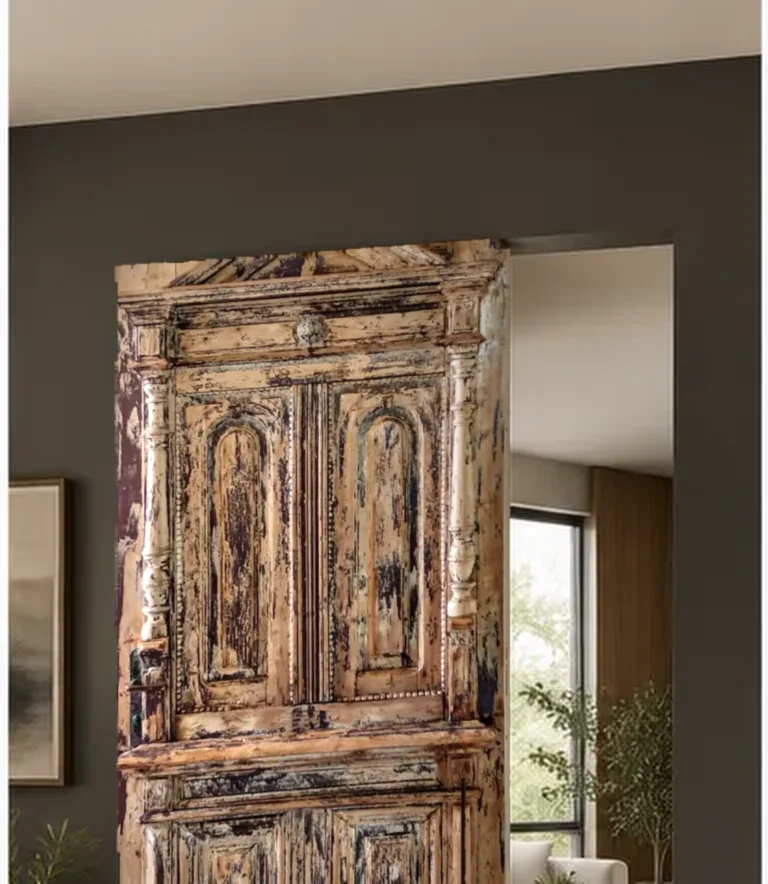
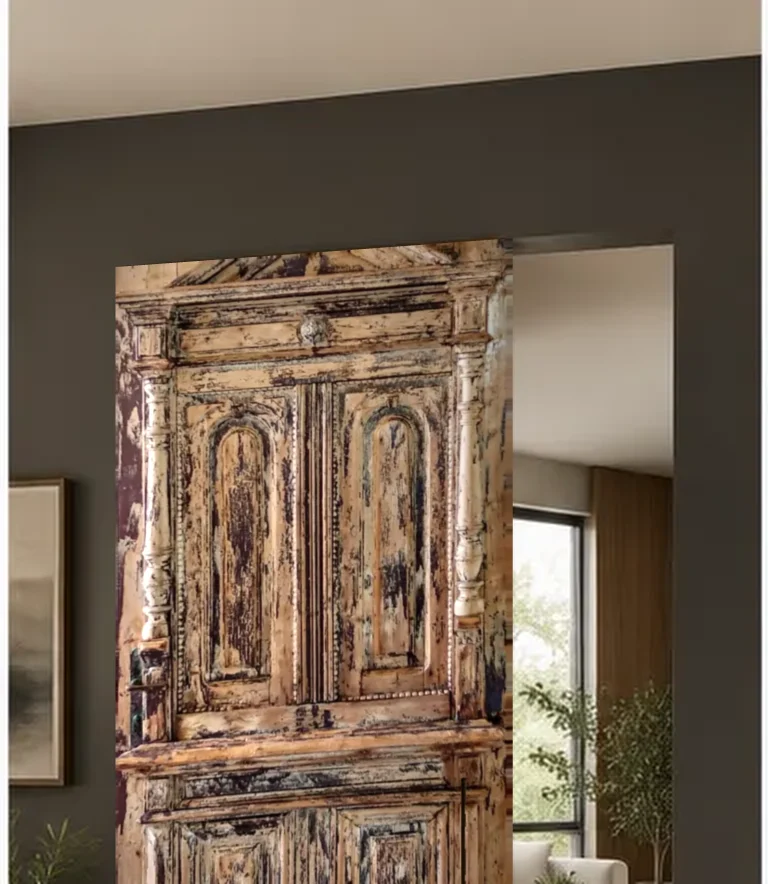
Show pocket door half open, clean slab edges, enlarge type dialog by 25%
- Pocket door (falban): the slab is now drawn half open in all four
  materials, leading edge at mid-opening, with the same handle as the
  other scenes; previously only a thin edge sliver was visible.
- Slab mask is an anti-aliased polygon from the measured corners instead
  of a colour mask: removes the ragged left edge and leftover strap blob
  on the floating-door images and the brown original-wood edge strip.
- Type dialog is 25% larger (max 1125 px wide).

Changed region(s): [[0.1562, 0.2749, 0.6875, 1.0], [0.125, 0.9468, 0.1562, 1.0]]

diff --git a/public/landing.css b/public/landing.css
@@ -966,13 +966,13 @@ a:focus-visible, button:focus-visible, input:focus-visible, select:focus-visible
 .type-more { display: inline-block; margin-top: 1rem; color: var(--accent); font-weight: 600; font-size: 0.9rem; }
 .type-dialog {
   position: fixed; inset: 0; margin: auto; height: fit-content;
-  width: min(900px, 92vw); max-height: 90vh; padding: 0; overflow: auto;
+  width: min(1125px, 94vw); max-height: 94vh; /* +25% (Zoli, 2026-11-25) */ padding: 0; overflow: auto;
   background: var(--bg-primary); color: inherit;
   border: 1px solid var(--border-color); border-radius: 8px;
 }
 .type-dialog::backdrop { background: rgba(0, 0, 0, 0.75); }
 .type-dialog[open] { display: grid; grid-template-columns: 1fr 1fr; }
-.type-dialog-img { background-size: cover; background-position: center top; min-height: 340px; }
+.type-dialog-img { background-size: cover; background-position: center top; min-height: 425px; }
 .type-dialog-body { padding: 2.5rem 2rem; }
 .type-dialog-body h3 { font-size: 1.7rem; margin-bottom: 1rem; }
 .type-dialog-text { color: var(--text-secondary); margin-bottom: 1rem; }
@@ -983,7 +983,7 @@ a:focus-visible, button:focus-visible, input:focus-visible, select:focus-visible
   border-radius: 50%; border: 0; background: rgba(0, 0, 0, 0.6); color: #fff; font-size: 1.5rem; cursor: pointer;
 }
 /* Vasalatoknál diavetítés: 4 ajtólap lassú áttűnéssel + működési animáció */
-.type-dialog-img.is-slides { position: relative; overflow: hidden; background: #141414; min-height: 460px; }
+.type-dialog-img.is-slides { position: relative; overflow: hidden; background: #141414; min-height: min(575px, 80vh); }
 .td-slide { position: absolute; inset: 0; width: 100%; height: 100%; object-fit: cover; object-position: center top; opacity: 0; transition: opacity 1.6s ease-in-out; }
 .td-slide.on { opacity: 1; }
 .td-anim { display: flex; align-items: center; justify-content: center; background: #141414; }

diff --git a/tools/ajtolap-montazs.py b/tools/ajtolap-montazs.py
@@ -20,12 +20,12 @@ FORRAS = {
     "fem": ("ajtolap-fem.webp", [(241, 200), (870, 200), (848, 1522), (283, 1545)]),
     "nyomatos": ("referencia/ref-23-templomos-minta.webp", [(172, 187), (770, 180), (703, 1515), (180, 1345)]),
     # az antik lap teteje a forrásképen a görgők alatt kezdődik (a díszes oromzat alja marad)
-    "antik": ("galeria-06-antik-diszes-ajto.webp", [(152, 262), (624, 262), (598, 1275), (177, 1235)]),
+    "antik": ("galeria-06-antik-diszes-ajto.webp", [(152, 262), (614, 262), (589, 1275), (177, 1235)]),
 }
 # A textúrán eltakarandó (vasalattal fedett) részek, a kiegyenesített lap arányában: x0, y0, x1, y1.
 TAKARAS = {
     "fem": [],
-    "nyomatos": [(0.0, 0.0, 1.0, 0.035), (0.0, 0.0, 0.08, 0.24), (0.9, 0.0, 1.0, 0.24)],
+    "nyomatos": [(0.0, 0.0, 1.0, 0.035), (0.0, 0.0, 0.12, 0.28), (0.85, 0.0, 1.0, 0.27)],
     "antik": [],
 }
 # A forrásfotó saját fogantyúja: a jelenet adja a fogantyút, ezt lefoltozzuk.
@@ -41,10 +41,8 @@ ALAP = {
     "pajta": [(47.5, 145.2), (258.5, 131.0), (258.5, 131.0 + 457), (47.5, 145.2 + 457)],
     "rejtett": [(58.5, 136.2), (252.8, 121.8), (252.8, 121.8 + 421), (58.5, 136.2 + 421)],
     "lebego": [(58.5, 134.2), (253.5, 119.8), (253.5, 119.8 + 423), (58.5, 134.2 + 423)],
-    # Falban futó: csak a lap falból kilógó széle látszik; ez a lap jobb szélének felel meg.
-    "falban": [(155.0, 145.5), (178.0, 143.6), (178.0, 143.6 + 421), (155.0, 145.5 + 421)],
 }
-FALBAN_SAV = 0.12  # a lap jobb szélének ekkora része látszik a falban futónál
+DEBUG = os.environ.get('MONTAZS_DEBUG') == '1'
 
 
 def textura(nev):
@@ -78,28 +76,36 @@ def textura(nev):
 
 
 def maszk(alap, nev):
-    """Az alapkép ajtólapjának pixelei (fa színű, összefüggő terület) – a vasalat és a fogantyú kimarad."""
+    """Az ajtólap pixelei: a kimért sarkokból rajzolt, élsimított sokszög, a sötét vasalat és fogantyú nélkül.
+    (A színalapú maszk az árnyékos lapszélen cakkos volt.) A falban futót a falban_felig() készíti."""
     hsv = cv2.cvtColor(alap, cv2.COLOR_BGR2HSV).astype(int)
     h, s, v = hsv[..., 0], hsv[..., 1], hsv[..., 2]
-    fa = ((h >= 6) & (h <= 26) & (s > 60) & (v > 55)).astype(np.uint8)
     q = np.float32(ALAP[nev]) * UP
-    poly = np.zeros(fa.shape, np.uint8)
-    cv2.fillConvexPoly(poly, np.int32(np.round(q)), 1)
-    poly = cv2.dilate(poly, np.ones((5, 5), np.uint8))
-    fa &= poly
-    n, lab, st, _ = cv2.connectedComponentsWithStats(fa)
-    fo = 1 + int(np.argmax(st[1:, cv2.CC_STAT_AREA]))
-    m = (lab == fo).astype(np.uint8)
-    # apró lyukak (sötétebb erezet) befoltozása, de a fekete vasalat kimarad
-    zart = cv2.morphologyEx(m, cv2.MORPH_CLOSE, np.ones((5, 5), np.uint8))
-    m = np.where((zart > 0) & (v > 45), 1, m).astype(np.uint8)
-    if nev == "falban":  # soronként kitöltjük a keskeny sávot
-        for y in range(m.shape[0]):
-            xs = np.nonzero(m[y])[0]
-            if len(xs) > 2:
-                m[y, xs.min():xs.max() + 1] = 1
-    a = cv2.GaussianBlur(m.astype(np.float32), (0, 0), 0.9)
-    return np.clip(a * 1.15, 0, 1)
+    # élsimított sokszög 4× túlmintavételezéssel; kicsit kifelé tolva, hogy az eredeti fa lap széle ne villanjon ki
+    k = q.mean(axis=0)
+    q = q + np.sign(q - k) * np.float32([1.6, 1.4]) * UP / 2
+    q[[1, 2], 0] += 2 * UP  # jobb oldalt a lap éle (vastagsága) is az új anyagot kapja
+    H, W = alap.shape[:2]
+    nagy = np.zeros((H * 4, W * 4), np.uint8)
+    cv2.fillConvexPoly(nagy, np.int32(np.round(q * 4)), 255)
+    poly = cv2.resize(nagy, (W, H), interpolation=cv2.INTER_AREA).astype(np.float32) / 255
+    fa = (h >= 6) & (h <= 26) & (s > 60) & (v > 55)
+    # vasalat (pánt, görgő, fogantyú) a lapon: nem fa színű, összefüggő, sötét foltok – ezeknél marad az eredeti
+    nemfa = ((~fa) & (poly > 0.5)).astype(np.uint8)
+    nemfa = cv2.morphologyEx(nemfa, cv2.MORPH_CLOSE, np.ones((5, 5), np.uint8))
+    n, lab, st, _ = cv2.connectedComponentsWithStats(nemfa)
+    vas = np.zeros_like(nemfa)
+    belso = cv2.erode((poly > 0.5).astype(np.uint8), np.ones((9, 9), np.uint8))
+    for i in range(1, n):
+        px = alap[lab == i].astype(int)  # BGR
+        barna = (px[:, 2] - px[:, 0]).mean()  # a sötét, barnás lapél nem vasalat; a fekete pánt/fogantyú szürke
+        szelen = bool((lab == i)[belso == 0].any())  # a lap peremén ér
+        if st[i, cv2.CC_STAT_AREA] >= 60 * UP and v[lab == i].mean() < 58 and (barna < 22 or not szelen):
+            vas[lab == i] = 1
+        if DEBUG and st[i, cv2.CC_STAT_AREA] >= 60 * UP:
+            print(nev, i, st[i, cv2.CC_STAT_AREA], round(v[lab == i].mean()), round(barna))
+    vas = cv2.GaussianBlur(vas.astype(np.float32), (0, 0), 0.7)
+    return np.clip(poly * (1 - vas), 0, 1)
 
 
 def arnyek(alap, a):
@@ -123,22 +129,74 @@ def main():
         Hh, Ww = alap.shape[:2]
         cv2.imwrite(os.path.join(OUT, f"{nev}-tomorfa.webp"), alap, [cv2.IMWRITE_WEBP_QUALITY, 86])
         for k, t in tex.items():
-            if nev == "falban":
-                x0 = int(TW * (1 - FALBAN_SAV))
-                t = cv2.resize(t[:, x0:], (TW, TH), interpolation=cv2.INTER_CUBIC)
             H = cv2.getPerspectiveTransform(np.float32([(0, 0), (TW, 0), (TW, TH), (0, TH)]), q)
             w = cv2.warpPerspective(t, H, (Ww, Hh), flags=cv2.INTER_AREA, borderMode=cv2.BORDER_REPLICATE)
             w = cv2.GaussianBlur(w, (0, 0), 0.6)  # a jelenet lágyságához
             lum = w.mean(axis=2)[a > 0.5].mean()
             cel = FENY[k] if FENY[k] is not None else lum
-            if nev == "falban" and FENY[k] is not None:
-                cel *= falum / 140.0  # árnyékosabb sáv
             w = w * (cel / max(lum, 1)) * S[..., None]
             w = w * np.float32([0.95, 1.0, 1.04])  # meleg szobafény (BGR)
             out = alap.astype(np.float32) * (1 - a[..., None]) + w * a[..., None]
             cv2.imwrite(os.path.join(OUT, f"{nev}-{k}.webp"), np.clip(out, 0, 255).astype(np.uint8),
                         [cv2.IMWRITE_WEBP_QUALITY, 86])
         print(nev, "kész")
+    falban_felig(tex)
+
+
+def falban_felig(tex):
+    """Falban futó, félig nyitva: az alapképen az ajtó szinte teljesen a falban van, ezért a lapot
+    mi húzzuk ki a nyílás közepéig. A tömörfa anyagot és a fogantyút a rejtett-kép (ugyanaz a jelenet) adja."""
+    kicsi = cv2.imread(os.path.join(IMG, "tipus-falban.webp"))
+    alap = cv2.resize(kicsi, None, fx=UP, fy=UP, interpolation=cv2.INTER_LANCZOS4).astype(np.float32)
+    Hh, Ww = alap.shape[:2]
+    # a nyílás felső éle (alapkép-pixel): y = 143.6 - 0.066·(x - 176); bal oldalt a zseb szája x = 150
+    fent = lambda x: 143.6 - 0.066 * (x - 176) + 1.0
+    X_ZSEB, X_EL, SZEL, MAG = 150.0, 244.5, 150.0, 325.0  # a lap elülső éle a nyílás közepén
+    xb = X_EL - SZEL
+    q = np.float32([(xb, fent(xb)), (X_EL, fent(X_EL)), (X_EL, fent(X_EL) + MAG), (xb, fent(xb) + MAG)]) * UP
+    # maszk: a lap sokszöge, de csak a zseb szájától jobbra látszik
+    nagy = np.zeros((Hh * 4, Ww * 4), np.uint8)
+    cv2.fillConvexPoly(nagy, np.int32(np.round(q * 4)), 255)
+    a = cv2.resize(nagy, (Ww, Hh), interpolation=cv2.INTER_AREA).astype(np.float32) / 255
+    a[:, :int(X_ZSEB * UP)] = 0
+    # fény: a nyílásban kicsit árnyékosabb, fent a szemöldök, bal oldalt a zseb szája sötétít
+    yy, xx = np.mgrid[0:Hh, 0:Ww].astype(np.float32)
+    S = 0.9 * (1 - 0.35 * np.exp(-(yy - fent(xx / UP) * UP) / (4 * UP))).clip(0.5, 1)
+    S *= 1 - 0.3 * np.exp(-(xx - X_ZSEB * UP) / (6 * UP)).clip(0, 1)
+    # tömörfa: a rejtett-kép fa lapja kiegyenesítve (ugyanaz a jelenet, ugyanaz a fa)
+    rejt = cv2.resize(cv2.imread(os.path.join(IMG, "tipus-rejtett.webp")), None, fx=UP, fy=UP,
+                      interpolation=cv2.INTER_LANCZOS4).astype(np.float32)
+    Hr = cv2.getPerspectiveTransform(np.float32(ALAP["rejtett"]) * UP, np.float32([(0, 0), (TW, 0), (TW, TH), (0, TH)]))
+    fa = cv2.warpPerspective(rejt, Hr, (TW, TH), flags=cv2.INTER_AREA, borderMode=cv2.BORDER_REPLICATE)
+    # A rejtett-képen a lap alja kilóg a képből, és lent ott a fogantyú: csak a felső, tiszta részt használjuk,
+    # lefelé tükrözve folytatjuk (függőleges deszkaerezet, a tükrözés nem feltűnő).
+    jo = fa[:int(TH * 0.58)]
+    fa = np.concatenate([jo, jo[::-1], jo])[:TH]
+    # a rejtett-kép fogantyúja (sötét pixelei) a lap elülső élétől ugyanakkora távolságra
+    rv = cv2.cvtColor(np.clip(rejt, 0, 255).astype(np.uint8), cv2.COLOR_BGR2HSV)[..., 2]
+    y0, y1, x0, x1 = 380 * UP, 442 * UP, 222 * UP, 242 * UP
+    fog = rejt[y0:y1, x0:x1]
+    fa_alpha = cv2.GaussianBlur((rv[y0:y1, x0:x1] < 58).astype(np.float32), (0, 0), 0.7)
+    dx = int(round((X_EL - ALAP["rejtett"][1][0]) * UP))  # rejtett lap jobb éle → elülső él
+    dy = int(round((fent(X_EL) - ALAP["rejtett"][1][1]) * UP))
+    anyagok = {"tomorfa": fa, **tex}
+    for k, t in anyagok.items():
+        H = cv2.getPerspectiveTransform(np.float32([(0, 0), (TW, 0), (TW, TH), (0, TH)]), q)
+        w = cv2.warpPerspective(t, H, (Ww, Hh), flags=cv2.INTER_AREA, borderMode=cv2.BORDER_REPLICATE)
+        w = cv2.GaussianBlur(w, (0, 0), 0.6)
+        lum = w.mean(axis=2)[a > 0.5].mean()
+        cel = lum if k == "tomorfa" or FENY[k] is None else FENY[k]
+        w = w * (cel / max(lum, 1)) * S[..., None]
+        if k != "tomorfa":
+            w = w * np.float32([0.95, 1.0, 1.04])
+        out = alap * (1 - a[..., None]) + w * a[..., None]
+        ty0, tx0 = y0 + dy, x0 + dx
+        h_, w_ = min(fog.shape[0], Hh - ty0), fog.shape[1]
+        al = fa_alpha[:h_, :, None] * a[ty0:ty0 + h_, tx0:tx0 + w_, None]
+        out[ty0:ty0 + h_, tx0:tx0 + w_] = out[ty0:ty0 + h_, tx0:tx0 + w_] * (1 - al) + fog[:h_] * al
+        cv2.imwrite(os.path.join(OUT, f"falban-{k}.webp"), np.clip(out, 0, 255).astype(np.uint8),
+                    [cv2.IMWRITE_WEBP_QUALITY, 86])
+    print("falban kész (félig nyitva)")
 
 
 if __name__ == "__main__":

diff --git a/docs/ATADAS.md b/docs/ATADAS.md
@@ -2,7 +2,7 @@
 
 Rövid, mindig naprakész összefoglaló annak, aki átveszi vagy folytatja a munkát. **Minden változtatással együtt frissítendő, ugyanabban a commitban.** A döntések indoklása és a részletes előzmények a [`TERV.md`](TERV.md)-ben vannak, a backend beállítása a [`../worker/README.md`](../worker/README.md)-ben.
 
-Utolsó frissítés: 2026-11-24
+Utolsó frissítés: 2026-11-25
 
 ## Kik
 
@@ -24,7 +24,9 @@ Utolsó frissítés: 2026-11-24
 ### Vasalattípus-ablakok diavetítése (2026-11-24)
 
 - A pajta, rejtett, lebegő és falban futó ablak bal oldalán ugyanaz a jelenet négy ajtólappal (tömörfa, nyomatos, fém, antik), 1,6 mp-es áttűnéssel, képenként 4,5 mp-ig. Az 5. dia a működés animációja (kb. 15 mp, mindig elölről indul). Pöttyökkel kézzel is lapozható. Csökkentett mozgásnál nincs automatikus lapozás.
-- A képek montázsok, nem MI-generálások: az eredeti `public/img/tipus-*.webp` jelenet pixelre megmarad, csak az ajtólap felülete cserélődik a saját fotóinkból. Újragyártás: `python tools/ajtolap-montazs.py`.
+- A képek montázsok, nem MI-generálások: az eredeti `public/img/tipus-*.webp` jelenet pixelre megmarad, csak az ajtólap felülete cserélődik a saját fotóinkból. Újragyártás: `python tools/ajtolap-montazs.py`. Az ajtólap maszkja a kimért sarkokból rajzolt, élsimított sokszög. A sötét, szürke vasalat (pánt, fogantyú) kimarad belőle, a barnás lapél viszont cserélődik (2026-11-25: így tűnt el a lebegő képek cakkos széle, a foltja és a barna élsávja).
+- **Falban futó (2026-11-25):** az ajtó félig nyitva látszik, a lap elülső éle a nyílás közepén van. Az alapképen szinte teljesen a falban volt, ezért itt a lapot mi rajzoljuk be (`falban_felig()`). A tömörfa anyagot és a fogantyút a rejtett-kép adja, mert ugyanaz a jelenet.
+- Az ablak 2026-11-25 óta 25%-kal nagyobb (max. 1125 px széles).
 - Az animációk SVG + CSS rajzok. Újragyártás: `python tools/vasalat-animaciok.py`. Kód: `public/landing.js` (a típusablak része), stílus: `public/landing.css` (`.td-*`).
 - **Ricsi nézze át:** a rejtett és a lebegő vasalat szerkezetét a felugró ablak szövegéből rajzoltuk, nem valódi műszaki rajzból.
 
